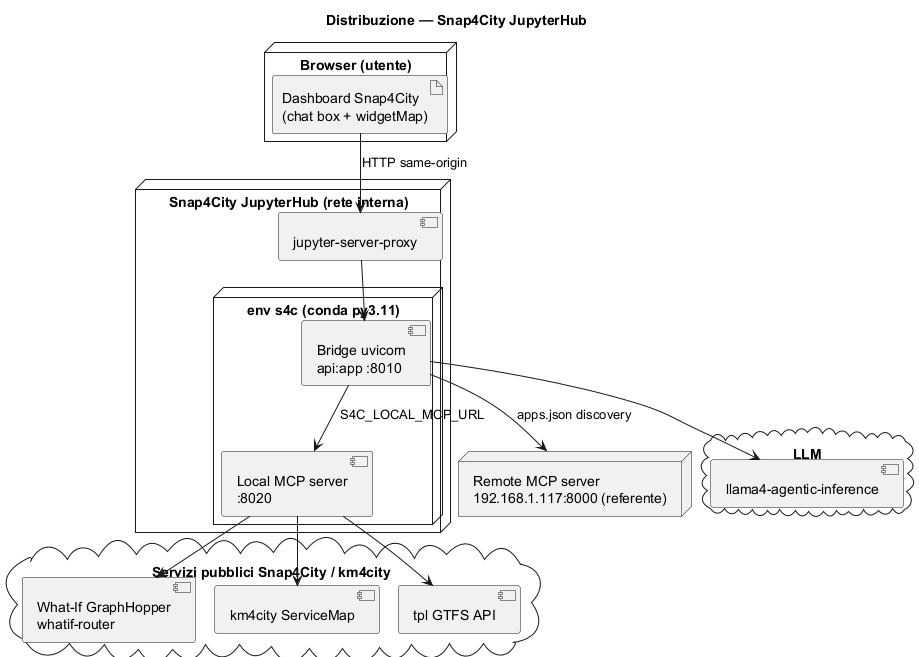
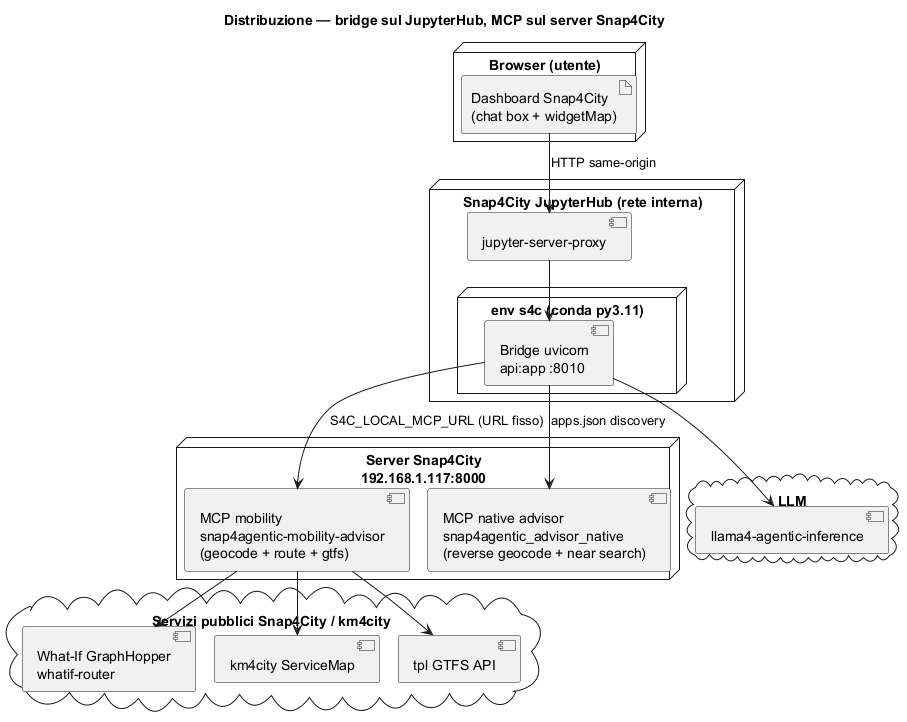
server sul snap4city

Changed region(s): [[0.0, 0.0, 1.0, 1.0], [0.1852, 0.5784, 0.247, 0.6393]]

diff --git a/relazione/relazione.tex b/relazione/relazione.tex
@@ -84,7 +84,10 @@ piattaforma: l'utente pone una domanda di viaggio in linguaggio naturale
 (\emph{``da Piazza del Duomo a Santa Croce''}) e il sistema risponde con il confronto
 fra i modi di trasporto disponibili --- due itinerari \textbf{monomodali}, a piedi e in
 auto, e uno \textbf{multimodale} con il trasporto pubblico --- disegnando i percorsi su
-una mappa della dashboard.
+una mappa della dashboard. Oltre ai percorsi, l'advisor risponde anche a richieste di
+\emph{soli servizi vicini} (\emph{``mostrami le farmacie qui intorno''}): senza calcolare
+alcun itinerario, mostra sulla mappa i punti della categoria richiesta attorno alla
+posizione dell'utente o a un luogo indicato.
 
 \section{Obiettivo}
 
@@ -102,8 +105,9 @@ sulla rete interna del DISIT: non fa parte di questa consegna. Questo progetto f
 \begin{itemize}
   \item il \textbf{client MCP} e l'\textbf{orchestratore LangGraph}
         (\texttt{orchestrator.py});
-  \item un \textbf{server MCP locale} (\texttt{mcp\_server.py}) che espone
-        geocodifica diretta e calcolo percorsi per tutti i modi;
+  \item il \textbf{server MCP mobility} (\texttt{mcp\_server.py}), che espone
+        geocodifica diretta e calcolo percorsi per tutti i modi ed \`e ora ospitato
+        sul server Snap4City;
   \item un \textbf{bridge HTTP} FastAPI (\texttt{api.py}) fra la dashboard e
         l'orchestratore;
   \item il \textbf{front-end} della dashboard (\texttt{frontend/}), una chat box
@@ -125,10 +129,12 @@ scopre a runtime e li invoca. In questo progetto il client \`e realizzato con Fa
 \cite{fastmcp} e dialoga con due server distinti:
 
 \begin{itemize}
-  \item il server \textbf{remoto} della piattaforma Snap4City
+  \item il server advisor \textbf{nativo} della piattaforma Snap4City
         (\texttt{snap4agentic\_advisor\_native}), scoperto automaticamente tramite
         l'endpoint \texttt{/apps.json} della dashboard;
-  \item il server \textbf{locale} sviluppato in questo elaborato.
+  \item il server \textbf{mobility} sviluppato in questo elaborato
+        (\texttt{snap4agentic-mobility-advisor}), anch'esso ora ospitato sul server
+        Snap4City e raggiunto a un URL fisso.
 \end{itemize}
 
 \section{LangGraph}
@@ -208,14 +214,14 @@ La Figura~\ref{fig:component} mostra la struttura complessiva.
 \end{figure}
 
 La ripartizione degli strumenti fra i due server MCP non \`e arbitraria.
-La geocodifica diretta e il routing sono serviti \textbf{localmente} perch\'e i
-corrispondenti tool remoti non erano utilizzabili:
+La geocodifica diretta e il routing sono serviti dal \textbf{server mobility} perch\'e i
+corrispondenti tool nativi non erano utilizzabili:
 
 \begin{itemize}
   \item il tool remoto \texttt{address\_search\_location} restituisce, per una via
         fiorentina, zero risultati toscani (i primi sono ad Anversa e in Grecia) e non
         ordina per punteggio di rilevanza; nessun parametro dello schema permette di
-        correggerlo. Il server locale interroga direttamente la ServiceMap pubblica,
+        correggerlo. Il server mobility interroga direttamente la ServiceMap pubblica,
         che sulla stessa interrogazione restituisce il risultato corretto in prima
         posizione;
   \item il tool remoto \texttt{routing} non ha mai restituito trasporto pubblico reale
@@ -249,7 +255,10 @@ Il nodo \texttt{understand} invia la domanda dell'utente, insieme agli ultimi tu
 conversazione, con una chiamata a strumento forzata. Lo schema estrae:
 intento, testo dell'origine, testo della destinazione, modo di trasporto, categoria di
 destinazione (per richieste generiche come \emph{``la farmacia pi\`u vicina''}),
-categoria dei servizi da mostrare lungo il percorso e orario di partenza.
+categoria dei servizi da mostrare lungo il percorso e orario di partenza. Fra i valori
+dell'intento rientra anche la \textbf{ricerca di soli servizi vicini} (\emph{pins-only}),
+che riusa la categoria di destinazione come categoria da cercare e il testo dell'origine
+come centro, senza aggiungere nuovi parametri allo schema.
 
 La cronologia inviata al modello \`e limitata agli ultimi otto messaggi: il contesto
 per un \emph{follow-up} sta negli ultimi turni, mentre una cronologia illimitata
@@ -350,16 +359,17 @@ per le domande successive senza gonfiare i prompt seguenti.
 \chapter{Distribuzione e integrazione}
 
 Il sistema gira sulla \textbf{JupyterHub di Snap4City}, unico ambiente da cui sono
-raggiungibili sia il server MCP remoto (rete interna) sia l'endpoint del modello.
-Come mostra la Figura~\ref{fig:deployment}, servono due processi: il server MCP locale
-sulla porta 8020 e il bridge FastAPI sulla porta 8010. Il browser raggiunge il bridge
-\emph{same-origin} attraverso \texttt{jupyter-server-proxy}.
+raggiungibili sia i due server MCP (ospitati sul server Snap4City, rete interna) sia
+l'endpoint del modello. Come mostra la Figura~\ref{fig:deployment}, la JupyterHub esegue
+\textbf{un solo processo}, il bridge FastAPI sulla porta 8010; il server mobility \`e
+ospitato sul server Snap4City e non va pi\`u avviato a mano. Il browser raggiunge il
+bridge \emph{same-origin} attraverso \texttt{jupyter-server-proxy}.
 
 \begin{figure}[htbp]
   \centering
   \includegraphics[width=0.95\textwidth]{deployment.png}
-  \caption{Distribuzione: due processi nell'ambiente JupyterHub, la dashboard nel
-           browser, i servizi esterni.}
+  \caption{Distribuzione: un solo processo (il bridge) nell'ambiente JupyterHub, i due
+           server MCP sul server Snap4City, la dashboard nel browser, i servizi esterni.}
   \label{fig:deployment}
 \end{figure}
 
@@ -386,6 +396,13 @@ eseguendo una ricerca attorno a ciascuna, con successiva deduplicazione dei risu
   \caption{Servizi della categoria richiesta individuati lungo il percorso.}
   \label{fig:servizi}
 \end{figure}
+
+Una variante \textbf{senza percorso} della stessa ricerca risponde a richieste come
+\emph{``mostrami le farmacie qui intorno''}: attorno al centro --- la posizione GPS
+oppure un indirizzo o una citt\`a indicati dall'utente --- vengono cercati fino a
+cinquanta servizi della categoria richiesta e restituiti come soli \emph{pin} sulla
+mappa, senza tracciare alcuna linea. Se manca la categoria o il luogo, l'advisor lo
+chiede prima di procedere.
 
 Le restanti schermate --- selezione delle singole modalit\`a tramite le chip, richieste
 a modo singolo e destinazione per categoria a partire dalla posizione GPS --- sono

diff --git a/src/snap4city_mobility_mcp/mcp_tools.py b/src/snap4city_mobility_mcp/mcp_tools.py
@@ -1,7 +1,7 @@
 """Client-side MCP layer.
 
-This module implements no tools: they live on referente's remote
-snap4agentic_advisor_native server and on our local mcp_server.py. Here we only
+This module implements no tools: they live on the Snap4City server — the native
+snap4agentic_advisor_native server and our mobility mcp_server.py. Here we only
 connect and run the graph's tool calls via client.call_tool, unwrapping the response.
 The route flow drives its tool chain in Python; no LLM ever picks a tool.
 
@@ -45,11 +45,11 @@ EXPOSED_TOOLS = (
 )
 TOOL_NAMES = frozenset(EXPOSED_TOOLS)
 
-# Tools served only by our local MCP server (mcp_server.py), with no referente remote
-# equivalent — so they are NOT expected in the referente probe. `route` wraps the What-If
-# router for every mode (L19/L46 — the referente remote `routing` tool is retired);
-# geocode reuses referente's `address_search_location` name (it exists remotely, just
-# broken) so it is NOT local-only here.
+# Tools served only by our mobility MCP server (mcp_server.py, now hosted on the Snap4City
+# server), with no Snap4City native-advisor equivalent — so they are NOT expected in the
+# native-server probe. `route` wraps the What-If router for every mode (L19/L46 — the native
+# remote `routing` tool is retired); geocode reuses the `address_search_location` name (it
+# exists on the native server, just broken) so it is NOT local-only here.
 LOCAL_ONLY_TOOLS = frozenset({"route"})
 
 # Parking discovery (car routes): search car parks near the destination for MAP PINS only.
@@ -82,11 +82,17 @@ async def _build_config() -> dict[str, Any]:
     }
 
 
-# Our own local MCP server (mcp_server.py) hosts forward geocoding (referente's remote
-# address_search_location is server-side broken, L28/L29). It is a separate single-server
-# client so the remote client stays single-server with bare tool names (no FastMCP server
-# prefix, L6); the single "local" key here likewise yields bare names.
-LOCAL_MCP_URL = os.environ.get("S4C_LOCAL_MCP_URL", "http://192.168.1.117:8000/snap4agentic-mobility-advisor/mcp")
+# Our mobility MCP server (mcp_server.py) hosts forward geocoding (the Snap4City remote
+# address_search_location is server-side broken, L28/L29) + the What-If `route` tool. It is a
+# separate single-server client so the remote client stays single-server with bare tool names
+# (no FastMCP server prefix, L6); the single "local" key here likewise yields bare names.
+# Default = the copy of this server hosted on the Snap4City server (path
+# /snap4agentic-mobility-advisor/mcp; probe-confirmed tools address_search_location + route),
+# derived off DASHBOARD_URL so one env (S4C_DASHBOARD_URL) moves both MCP endpoints to the
+# same host. Override S4C_LOCAL_MCP_URL with http://127.0.0.1:8020/mcp for a self-run :8020.
+LOCAL_MCP_URL = os.environ.get(
+    "S4C_LOCAL_MCP_URL", f"{DASHBOARD_URL}/snap4agentic-mobility-advisor/mcp"
+)
 
 
 def _local_config() -> dict[str, Any]:

diff --git a/src/snap4city_mobility_mcp/mcp_server.py b/src/snap4city_mobility_mcp/mcp_server.py
@@ -1,6 +1,6 @@
-"""Local MCP server — our own tools, hosted alongside the client.
+"""Mobility MCP server — our own tools, now hosted on the Snap4City server.
 
-referente's remote `address_search_location` returns a broken result set (a query for
+The Snap4City remote `address_search_location` returns a broken result set (a query for
 "chiesa ..., Firenze" comes back as 100 Spanish/Greek/Belgian hits and zero Tuscan;
 see docs/lessons.md L28/L29). So forward geocoding is served here instead, by wrapping
 the *public* km4city ServiceMap API (servicemap.disit.org — the same index the native
@@ -12,10 +12,12 @@ tool did, so the client's existing 2-pass / pick-coord logic is reused unchanged
 This server is generic on purpose (named `mcp_server`, not `geocode_server`): it hosts
 the geocode tool (L29) and the all-modes What-If `route` tool (L19/L46).
 
-Run it on the JupyterHub (it only needs outbound HTTP to the public ServiceMap):
-    python -m snap4city_mobility_mcp.mcp_server
-It serves Streamable HTTP at http://0.0.0.0:8020/mcp/ ; the client reaches it via
-S4C_LOCAL_MCP_URL (orchestrator._local_config), defaulting to http://127.0.0.1:8020/mcp.
+It is deployed on the Snap4City server; the client reaches it (via S4C_LOCAL_MCP_URL,
+orchestrator._local_config) at {DASHBOARD_URL}/snap4agentic-mobility-advisor/mcp. To self-test
+a local copy, run this file (it only needs outbound HTTP to the public ServiceMap) and point
+the client at it:
+    python -m snap4city_mobility_mcp.mcp_server            # serves http://0.0.0.0:8020/mcp/
+    export S4C_LOCAL_MCP_URL=http://127.0.0.1:8020/mcp
 """
 import logging
 import os
@@ -37,11 +39,11 @@ logger = logging.getLogger(__name__)
 # text-search ordering (byte-identical output with/without), so proximity ranking is done
 # client-side (orchestrator._pick_coord haversine against the user's GPS).
 # DELIBERATELY the single-region Tuscany index, not the federated SuperServiceMap
-# (https://www.snap4city.org/superservicemap/api/v1) that referente's stack uses: the SSM
+# (https://www.snap4city.org/superservicemap/api/v1) that the Snap4City stack uses: the SSM
 # does carry more regions (Antwerp/Helsinki/València/GardaLake), but its ranking is broken
 # — probed 2026-07-09, "via zara firenze" ranks a Maastricht bus stop first (the L28
-# failure mode this local tool exists to escape). Override via S4C_SERVICEMAP_BASE once
-# referente fixes the SSM ranking and multi-region routing.
+# failure mode this tool exists to escape). Override via S4C_SERVICEMAP_BASE once the SSM
+# ranking and multi-region routing are fixed.
 SERVICEMAP_BASE = os.environ.get(
     "S4C_SERVICEMAP_BASE", "https://servicemap.disit.org/WebAppGrafo/api/v1"
 )
@@ -49,10 +51,10 @@ HTTP_TIMEOUT_S = 40.0
 
 # Snap4City What-If GraphHopper router — ALL routing (foot/car/bus) goes through it via
 # the local `route` tool, so every mode shares one request/response shape. It fully
-# replaced the referente remote `routing` tool (retired 2026-07-13, L46): that tool's
+# replaced the Snap4City native `routing` tool (retired 2026-07-13, L46): that tool's
 # public_transport mode never returned transit (L19) and its km4city backend needed a
 # stale-retry ladder (L3/L8). Same source the Gea-Night What-If dashboard draws from.
-# S4C_WHATIF_ROUTER_URL overrides the base. The default is the ONLINE instance: referente
+# S4C_WHATIF_ROUTER_URL overrides the base. The default is the ONLINE instance: Snap4City
 # loaded the Tuscany GTFS on it (2026-07-10) — set the env var to
 # "http://localhost:8080/whatif-router/route" only to test a locally-built router.
 # The online instance reloads the PT graph on every vehicle=bus request (~30-40s

diff --git a/api.py b/api.py
@@ -1,8 +1,8 @@
 """FastAPI bridge exposing the mobility advisor to the Snap4City dashboard.
 
 The dashboard chat box (frontend/mobility_advisor_dashboard.html) can't reach the
-JupyterHub-only Llama4 + MCP server from the browser, so this thin HTTP layer wraps
-run_advisor. It is a JOB + POLL protocol (never one long request, see below):
+JupyterHub-only Llama4 from the browser (nor drive the MCP tool turn), so this thin HTTP
+layer wraps run_advisor. It is a JOB + POLL protocol (never one long request, see below):
     POST /advise {query, history, gps} -> {"job_id": ...}   (returns at once)
     GET  /advise/{job_id}              -> 202 {"status":"pending","stage":...,"elapsed_s":...}
                                           while running, then 200 with the widget JSON
@@ -27,11 +27,12 @@ takes the turn OUT of the request lifetime instead — every HTTP call here is s
 so no proxy (this one, or whatever fronts the referente deployment later) can time it out.
 Do not "optimize" this back into a single long request.
 
-Run on the JupyterHub (where Llama4 + the MCP server are reachable), reached from the
-browser same-origin through jupyter-server-proxy (see frontend/README.md):
+Run on the JupyterHub (where Llama4 is reachable), reached from the browser same-origin
+through jupyter-server-proxy (see frontend/README.md):
     uvicorn api:app --host 0.0.0.0 --port 8010
-Needs user_credentials.json in the repo root and the intranet MCP server reachable.
-CORS below is permissive for development and must be tightened before any real exposure.
+Needs user_credentials.json in the repo root and the two Snap4City MCP endpoints reachable
+(the native advisor + our mobility server, both on the Snap4City server). CORS below is
+permissive for development and must be tightened before any real exposure.
 
 Diagnostics: each /advise turn OVERWRITES both files so they hold only the latest turn
 (easy to inspect "why this query did X"): tool-level DEBUG -> debug.log, full output JSON

diff --git a/src/snap4city_mobility_mcp/orchestrator.py b/src/snap4city_mobility_mcp/orchestrator.py
@@ -5,7 +5,7 @@ respond -> END.
 
 - understand (LLM, forced tool call): extracts the request slots (intent, origin,
   destination, category, mode, departure time) from the latest user turn, place text only.
-  Follow-ups like "那坐公交呢?" resolve against the conversation history.
+  Follow-ups like "E con il bus?" resolve against the conversation history.
 - execute (plain Python, no LLM): for a route intent, resolves both endpoints then routes the
   requested modes concurrently. A missing origin defaults to the user's GPS position (browser
   geolocation, threaded through run_advisor); a generic-category destination ("farmacia più

diff --git a/README.md b/README.md
@@ -2,7 +2,7 @@
 
 **Client MCP con orchestrazione LangGraph** per il server *mobility advisor* remoto della piattaforma Snap4City. UNIFI — *Sistemi Distribuiti, elaborato di Tipo A*.
 
-L'utente pone una domanda di viaggio → un grafo LangGraph **deterministico** (`understand → execute → respond`) la risolve: il modello **Llama4** di Snap4City si limita a estrarre i parametri della richiesta (origine/destinazione/modo), mentre il codice Python guida in modo deterministico gli strumenti MCP — geocodifica e calcolo percorsi (tutti i modi) su un **server MCP locale** (`mcp_server.py`, che incapsula la ServiceMap pubblica km4city e il router What-If GraphHopper di Snap4City), geocodifica inversa / ricerca di servizi per prossimità / parcheggi in tempo reale sul server remoto — e compone la risposta. Il modello non invoca mai strumenti di propria iniziativa. Il risultato è il JSON che il widget della dashboard Snap4City disegna. Il server MCP remoto fa parte della piattaforma Snap4City ed è ospitato sulla rete interna (raggiungibile direttamente dalla JupyterHub di Snap4City); questo progetto fornisce **client + orchestratore LangGraph + bridge FastAPI (`api.py`) + front-end della dashboard (`frontend/`) + il server MCP locale**.
+L'utente pone una domanda di viaggio → un grafo LangGraph **deterministico** (`understand → execute → respond`) la risolve: il modello **Llama4** di Snap4City si limita a estrarre i parametri della richiesta (origine/destinazione/modo), mentre il codice Python guida in modo deterministico gli strumenti MCP — geocodifica e calcolo percorsi (tutti i modi) sul **server MCP mobility** (`mcp_server.py`, che incapsula la ServiceMap pubblica km4city e il router What-If GraphHopper di Snap4City, ora ospitato sul server Snap4City), geocodifica inversa / ricerca di servizi per prossimità / parcheggi in tempo reale sul server advisor nativo — e compone la risposta. Il modello non invoca mai strumenti di propria iniziativa. Il risultato è il JSON che il widget della dashboard Snap4City disegna. Entrambi i server MCP (advisor nativo e mobility) fanno parte della piattaforma Snap4City e sono ospitati sul server Snap4City (rete interna, raggiungibile direttamente dalla JupyterHub); questo progetto fornisce **client + orchestratore LangGraph + bridge FastAPI (`api.py`) + front-end della dashboard (`frontend/`) + il server MCP mobility (`mcp_server.py`)**.
 
 La relazione scritta dell'elaborato è in [relazione/](relazione/); i diagrammi dell'architettura in [docs/diagrams/](docs/diagrams/), le schermate della dashboard in [screenshots/](screenshots/) e gli output reali end-to-end in [examples/](examples/).
 
@@ -18,6 +18,7 @@ L'advisor deterministico risponde a **domande di percorso punto-punto** — due 
 - Se **manca l'origine** ("portami al Duomo") si usa la **posizione GPS** dell'utente (geocodificata a ritroso una sola volta, così la risposta può dire *"dalla tua posizione"*); senza GPS l'advisor chiede il punto di partenza.
 - Le **destinazioni per categoria generica** ("la farmacia più vicina") si risolvono con lo strumento remoto `service_search_near_gps_position`: il servizio più vicino di quella categoria km4city attorno all'utente (o attorno alla città nominata, se il GPS manca).
 - I **servizi lungo il percorso** ("con le farmacie lungo il percorso") vengono cercati campionando punti di ancoraggio sulla geometria calcolata ed eseguendo una ricerca per prossimità attorno a ciascuno; i risultati sono poi associati al singolo modo di trasporto.
+- La **ricerca di soli servizi vicini** ("mostrami le farmacie qui intorno") non calcola alcun percorso: attorno al centro — la posizione GPS oppure un indirizzo o una città indicati — cerca fino a 50 servizi della categoria richiesta e li mostra come **pin sulla mappa** (nessuna linea; se manca la categoria o il luogo, l'advisor lo chiede).
 
 Lo strumento remoto `routing` è stato dismesso lato client: **tutto il calcolo dei percorsi** (a piedi / auto / trasporto pubblico) passa dallo strumento locale `route`, che incapsula il router What-If GraphHopper di Snap4City. Lo strumento remoto non ha mai restituito trasporto pubblico reale per `public_transport` e il suo backend km4city richiedeva un'intera catena di tentativi per gestire le risposte vuote transitorie; il router What-If è insieme corretto e — per i profili a piedi e auto — più rapido. Il server remoto continua a fornire geocodifica inversa, ricerca di servizi per prossimità e dati sui parcheggi in tempo reale.
 
@@ -44,15 +45,13 @@ L'**LLM Llama4** risponde **solo dalla JupyterHub**: le credenziali dell'account
 
 Il server MCP remoto è sulla rete interna e viene raggiunto direttamente dalla JupyterHub; l'orchestratore punta di default a `http://192.168.1.117:8000` (modificabile con `S4C_DASHBOARD_URL`). Accesso: snap4city.org → *Strumenti di sviluppo* → *Jupyter Hub - Python*
 
-Servono **due processi**, ciascuno in un terminale della JupyterHub dentro l'ambiente `s4c`, avviando per primo il server MCP locale.
+Serve **un solo processo** sulla JupyterHub, nell'ambiente `s4c`: il bridge dell'advisor. Il server MCP mobility (geocodifica + `route` per tutti i modi) è ora ospitato sul server Snap4City, quindi non va più avviato a mano.
 
 ```bash
-python -m snap4city_mobility_mcp.mcp_server   # terminal 1 — :8020
-uvicorn api:app --host 0.0.0.0 --port 8010    # terminal 2 — :8010
+uvicorn api:app --host 0.0.0.0 --port 8010    # bridge — :8010
 ```
 
-- **Terminale 1, server MCP locale** (`:8020`): geocodifica diretta (incapsula la ServiceMap **pubblica** di km4city, perché lo strumento remoto `address_search_location` è difettoso lato server — le prove sono in [docs/snap4city-api-notes.md](docs/snap4city-api-notes.md) §3) e lo strumento `route` per tutti i modi (incapsula il router What-If GraphHopper). Gli serve solo traffico HTTP in uscita. Il client lo raggiunge tramite `S4C_LOCAL_MCP_URL` (default `http://127.0.0.1:8020/mcp`).
-- **Terminale 2, bridge dell'advisor** (`:8010`): guida l'LLM ed entrambi i server MCP. Il browser lo raggiunge *same-origin* attraverso `jupyter-server-proxy` (procedura di installazione e configurazione in [frontend/README.md](frontend/README.md)).
+- **Bridge dell'advisor** (`:8010`): guida l'LLM ed entrambi i server MCP di Snap4City — l'advisor nativo (scoperto via `apps.json`) e il server mobility (all'URL fisso `S4C_LOCAL_MCP_URL`, default `http://192.168.1.117:8000/snap4agentic-mobility-advisor/mcp`). Il browser lo raggiunge *same-origin* attraverso `jupyter-server-proxy` (procedura di installazione e configurazione in [frontend/README.md](frontend/README.md)). Per collaudare in locale una copia del server mobility: `python -m snap4city_mobility_mcp.mcp_server` (serve `:8020`) ed `export S4C_LOCAL_MCP_URL=http://127.0.0.1:8020/mcp`.
 
 Il front-end è una **chat box** in linguaggio naturale sulla dashboard Snap4City (`frontend/mobility_advisor_dashboard.html`, un `widgetExternalContent`) che dialoga con il bridge, con il percorso disegnato su un `widgetMap` adiacente.
 
@@ -102,9 +101,9 @@ snap4city-mobility-mcp/
 ├── scripts/                    # delivery packaging
 ├── tests/                      # local mock unit tests (no LLM / MCP needed)
 └── src/
-    └── snap4city_mobility_mcp/    # client package + local MCP server — the remote advisor server is Snap4City-managed
+    └── snap4city_mobility_mcp/    # client package + mobility MCP server source — both MCP servers are hosted on the Snap4City server
         ├── mcp_tools.py           # client MCP layer: Client config, exec_tool, two-pass geocode, result parsers
-        ├── mcp_server.py          # our local MCP server: forward geocode (public km4city ServiceMap) + `route` for all modes (What-If GraphHopper)
+        ├── mcp_server.py          # our mobility MCP server (hosted on the Snap4City server): forward geocode (public km4city ServiceMap) + `route` for all modes (What-If GraphHopper)
         ├── orchestrator.py        # deterministic Langgraph graph: understand → execute → respond; run_advisor
         ├── gtfs_shapes.py         # swaps bus ride-leg chords for real km4city GTFS shapes
         ├── geo.py                 # haversine + WKT helpers, shared by the graph and the local server
@@ -114,11 +113,11 @@ snap4city-mobility-mcp/
 
 ---
 
-## 5. Strumenti utilizzati — 3 remoti + 2 locali
+## 5. Strumenti utilizzati (tutti sul server Snap4City)
 
-Il server remoto `snap4agentic_advisor_native` (della piattaforma Snap4City) fornisce la **geocodifica inversa** (`coordinates_to_address`, che dà un nome all'origine ricavata dal GPS), la **ricerca di servizi per prossimità** (`service_search_near_gps_position`, usata per i parcheggi vicino alla destinazione, per le destinazioni del tipo "farmacia più vicina" e per i servizi lungo il percorso) e i **parcheggi in tempo reale** (`service_info_dev`, posti liberi per singolo parcheggio). Lo si raggiunge tramite la scoperta automatica della dashboard (`http://192.168.1.117:8000/apps.json` → `Client(config)`), restringendo la configurazione a quel solo server: FastMCP antepone il prefisso ai nomi degli strumenti solo quando fonde **più** server in un'unica configurazione, quindi con un solo server gli strumenti si invocano con il nome nudo.
+Il server remoto `snap4agentic_advisor_native` (della piattaforma Snap4City) fornisce la **geocodifica inversa** (`coordinates_to_address`, che dà un nome all'origine ricavata dal GPS), la **ricerca di servizi per prossimità** (`service_search_near_gps_position`, usata per i parcheggi vicino alla destinazione, per le destinazioni del tipo "farmacia più vicina", per i servizi lungo il percorso e per la ricerca di soli servizi vicini senza percorso) e i **parcheggi in tempo reale** (`service_info_dev`, posti liberi per singolo parcheggio). Lo si raggiunge tramite la scoperta automatica della dashboard (`http://192.168.1.117:8000/apps.json` → `Client(config)`), restringendo la configurazione a quel solo server: FastMCP antepone il prefisso ai nomi degli strumenti solo quando fonde **più** server in un'unica configurazione, quindi con un solo server gli strumenti si invocano con il nome nudo.
 
-**La geocodifica diretta e il calcolo dei percorsi sono serviti localmente** da `mcp_server.py`: `address_search_location` (che incapsula la ServiceMap **pubblica** di km4city, perché quella remota è difettosa lato server) e `route` (`vehicle="foot"|"car"|"bus"` più coordinate di partenza e arrivo e un `startdatetime` opzionale, che incapsula il router What-If GraphHopper). Il client vi si collega come **client separato** a server singolo (`S4C_LOCAL_MCP_URL`); è proprio tenerlo separato che preserva i nomi nudi degli strumenti remoti.
+**La geocodifica diretta e il calcolo dei percorsi sono serviti dal server MCP mobility** (`mcp_server.py`, ospitato sul server Snap4City): `address_search_location` (che incapsula la ServiceMap **pubblica** di km4city, perché quella remota è difettosa lato server) e `route` (`vehicle="foot"|"car"|"bus"` più coordinate di partenza e arrivo e un `startdatetime` opzionale, che incapsula il router What-If GraphHopper). Il client vi si collega come **client separato** a server singolo (`S4C_LOCAL_MCP_URL`); è proprio tenerlo separato che preserva i nomi nudi degli strumenti remoti.
 
 Il nodo deterministico `execute` li concatena in Python — risoluzione dell'origine (geocodifica o punto GPS) → risoluzione della destinazione (geocodifica o servizio più vicino per categoria) → calcolo di ciascun modo → eventuale campionamento dei servizi lungo la geometria — e ogni chiamata passa da `mcp_tools.exec_tool`.
 

diff --git a/docs/snap4city-api-notes.md b/docs/snap4city-api-notes.md
@@ -4,7 +4,7 @@ Riferimento sul backend: appunti campo per campo raccolti interrogando dal vivo 
 km4city che stanno dietro al server MCP remoto di Snap4City. La §1 tratta la semantica di geocodifica
 da cui l'advisor dipende, la §2 le firme degli strumenti remoti che invoca (nomi nudi: una
 configurazione a server singolo non aggiunge prefissi), la §3 le prove del perché la geocodifica
-diretta è servita localmente.
+diretta è servita dal server MCP mobility (ospitato sul server Snap4City).
 
 Sorgente delle specifiche: `ascapi-openapiv3.json` (OAS3, copia su https://www.km4city.org/swagger/external/ascapi-openapiv3.json).
 URL di base del backend: `https://www.snap4city.org/superservicemap/api/v1/` (è quello che gli strumenti remoti chiamano internamente; noi non lo tocchiamo direttamente).
@@ -13,8 +13,9 @@ URL di base del backend: `https://www.snap4city.org/superservicemap/api/v1/` (è
 
 ## §1. Geocodifica: `address_search_location` / km4city `/location/`
 
-Servita dal nostro server MCP **locale** (`mcp_server.py`), che incapsula la ServiceMap pubblica
-di km4city — lo strumento remoto con lo stesso nome è difettoso lato server (vedi §3). La forma
+Servita dal nostro server MCP **mobility** (`mcp_server.py`, ospitato sul server Snap4City), che
+incapsula la ServiceMap pubblica di km4city — lo strumento remoto con lo stesso nome è difettoso
+lato server (vedi §3). La forma
 della risposta riportata qui sotto è quella restituita da entrambi, quindi il parsing del client
 è identico nei due casi.
 
@@ -67,10 +68,10 @@ I nomi compaiono **senza prefisso del server** con una configurazione a server s
 | `service_search_near_gps_position` | `latitude` + `longitude` | `categories`, `maxdistance` (km), `maxresults` | Punti di interesse più vicini per categoria: parcheggi e destinazioni del tipo "farmacia più vicina" |
 | `service_info_dev` | `serviceUri` | `fromTime` | Ultimo dato in tempo reale sui posti liberi di un parcheggio |
 
-La geocodifica diretta (`address_search_location`) e il calcolo dei percorsi (`route`, per tutti i modi) arrivano invece dal server MCP **locale** (§1, §3). Gli strumenti rilevati accettano un parametro opzionale `authentication` (Bearer); la rilevazione non ha mostrato alcun requisito di token, quindi l'advisor lo omette (il backend km4city interrogato è pubblico).
+La geocodifica diretta (`address_search_location`) e il calcolo dei percorsi (`route`, per tutti i modi) arrivano invece dal server MCP **mobility** (§1, §3). Gli strumenti rilevati accettano un parametro opzionale `authentication` (Bearer); la rilevazione non ha mostrato alcun requisito di token, quindi l'advisor lo omette (il backend km4city interrogato è pubblico).
 
 ---
 
-## §3. Perché la geocodifica diretta è servita localmente
+## §3. Perché la geocodifica diretta è servita dal server MCP mobility
 
-**`address_search_location` (remoto) è difettoso lato server** — confronto fra interrogazioni diverse, stessa ricerca `via zara 3`: la ServiceMap pubblica restituisce al primo posto `VIA ZARA, FIRENZE` (punteggio 12,64), mentre lo strumento MCP remoto restituisce **zero risultati toscani** (in testa Anversa e Grecia, punteggio 3–7) **e non ordina per punteggio**. Lo schema non espone alcun parametro di ordinamento, di riquadro geografico o di regione, e portare `maxresults` a 5000 non fa comparire il risultato toscano: semplicemente non è nell'insieme restituito. Da qui la scelta dello strumento di geocodifica locale. SuperServiceMap, il backend federato, ha lo stesso difetto di ordinamento ("via zara firenze" mette al primo posto una fermata di Maastricht). Il client può tornare a usarlo cambiando una sola variabile d'ambiente (`S4C_SERVICEMAP_BASE`) se l'ordinamento verrà corretto.
+**`address_search_location` (remoto) è difettoso lato server** — confronto fra interrogazioni diverse, stessa ricerca `via zara 3`: la ServiceMap pubblica restituisce al primo posto `VIA ZARA, FIRENZE` (punteggio 12,64), mentre lo strumento MCP remoto restituisce **zero risultati toscani** (in testa Anversa e Grecia, punteggio 3–7) **e non ordina per punteggio**. Lo schema non espone alcun parametro di ordinamento, di riquadro geografico o di regione, e portare `maxresults` a 5000 non fa comparire il risultato toscano: semplicemente non è nell'insieme restituito. Da qui la scelta dello strumento di geocodifica del server mobility. SuperServiceMap, il backend federato, ha lo stesso difetto di ordinamento ("via zara firenze" mette al primo posto una fermata di Maastricht). Il client può tornare a usarlo cambiando una sola variabile d'ambiente (`S4C_SERVICEMAP_BASE`) se l'ordinamento verrà corretto.

diff --git a/frontend/README.md b/frontend/README.md
@@ -47,14 +47,17 @@ va in errore dentro `addCustomTrajectoryToMap` (`Cannot read properties of undef
 
 ## Avvio del bridge (JupyterHub)
 
-Il bridge ha bisogno di Llama4 e dei server MCP, raggiungibili solo dalla JupyterHub. Si
-avvia per primo il server MCP locale (fornisce la geocodifica e TUTTO il calcolo dei
-percorsi, con lo strumento `route`):
+Il bridge ha bisogno di Llama4 (raggiungibile solo dalla JupyterHub) e dei due server MCP di
+Snap4City (advisor nativo + mobility), ora ospitati sul server Snap4City. Serve quindi **un
+solo processo** sulla JupyterHub:
 
 ```
-python -m snap4city_mobility_mcp.mcp_server   # :8020, terminal 1
-uvicorn api:app --host 0.0.0.0 --port 8010    # terminal 2
+uvicorn api:app --host 0.0.0.0 --port 8010
 ```
+
+Per collaudare in locale una copia del server MCP mobility: avviarlo con
+`python -m snap4city_mobility_mcp.mcp_server` (serve `:8020`) e puntare il client con
+`export S4C_LOCAL_MCP_URL=http://127.0.0.1:8020/mcp`.
 
 **Job + poll**: la POST si limita ad *avviare* il turno (risponde subito con
 `{job_id}`) e il widget interroga `GET /advise/{job_id}` finché non ottiene 200. Un

diff --git a/screenshots/README.md b/screenshots/README.md
@@ -2,7 +2,7 @@
 
 Sottocartella con le immagini degli snapshot delle schermate (istruzione di consegna).
 Sono catture reali dell'advisor in funzione sulla dashboard Snap4City, eseguito dalla
-**Snap4City JupyterHub** con i due processi attivi (vedi `README.md` §3). La relazione in
+**Snap4City JupyterHub** con il bridge attivo (il server MCP mobility è ospitato sul server Snap4City; vedi `README.md` §3). La relazione in
 `relazione/` richiama queste immagini.
 
 ## Immagini presenti
@@ -18,6 +18,7 @@ Sono catture reali dell'advisor in funzione sulla dashboard Snap4City, eseguito 
 | `02-modo-singolo-multimodale.png` | Richiesta esplicita "in autobus" | idem, itinerario multimodale (non paga l'attesa degli altri modi) |
 | `03-gps-vicino.png` | Destinazione per categoria vicino alla posizione | origine presa dal GPS del browser, destinazione risolta come servizio più vicino della categoria richiesta |
 | `04-servizi-lungo-percorso.png` | Servizi lungo il percorso | rotta con i pin viola dei servizi della categoria richiesta, campionati lungo il tragitto |
+| `05-servizi-vicini.png` | Servizi vicini senza percorso ("mostrami le farmacie qui intorno") | solo i pin dei servizi della categoria richiesta attorno alla posizione o al luogo indicato, senza alcuna rotta disegnata |
 
 ## Note
 